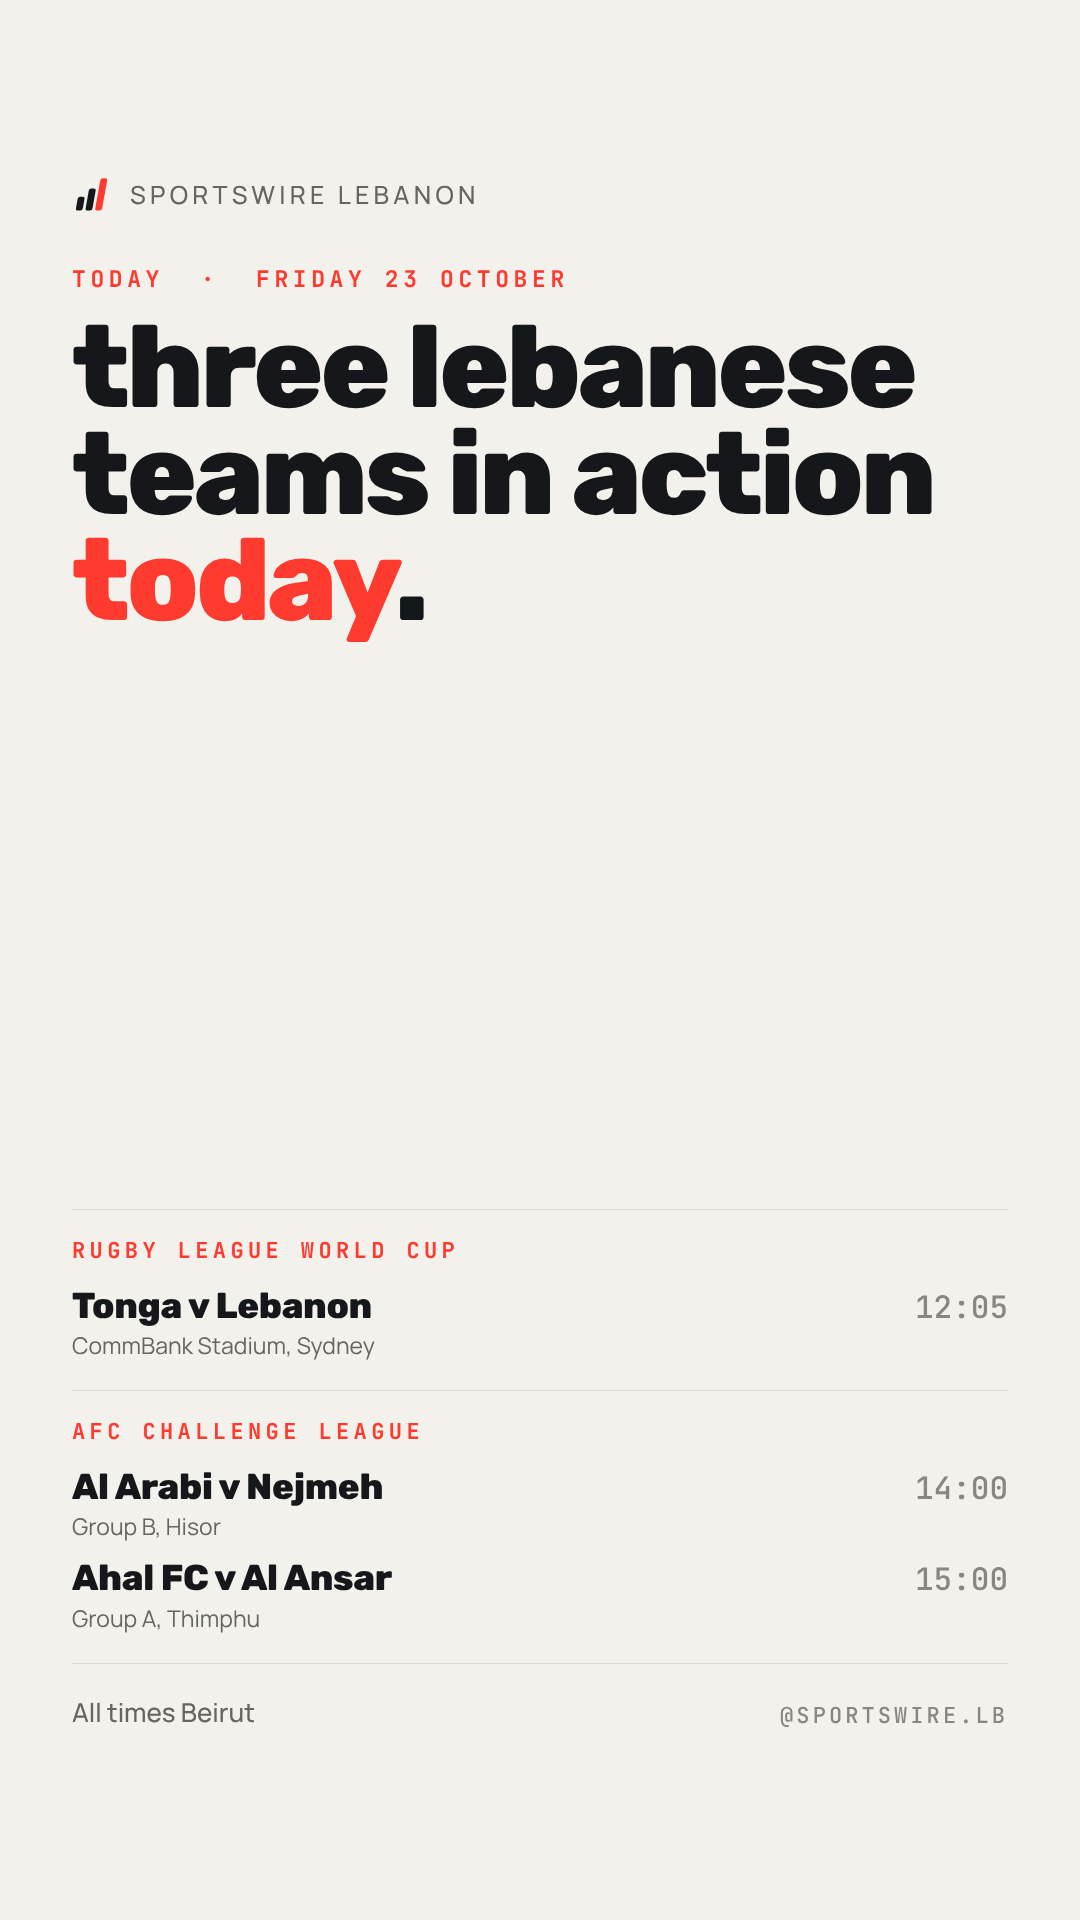
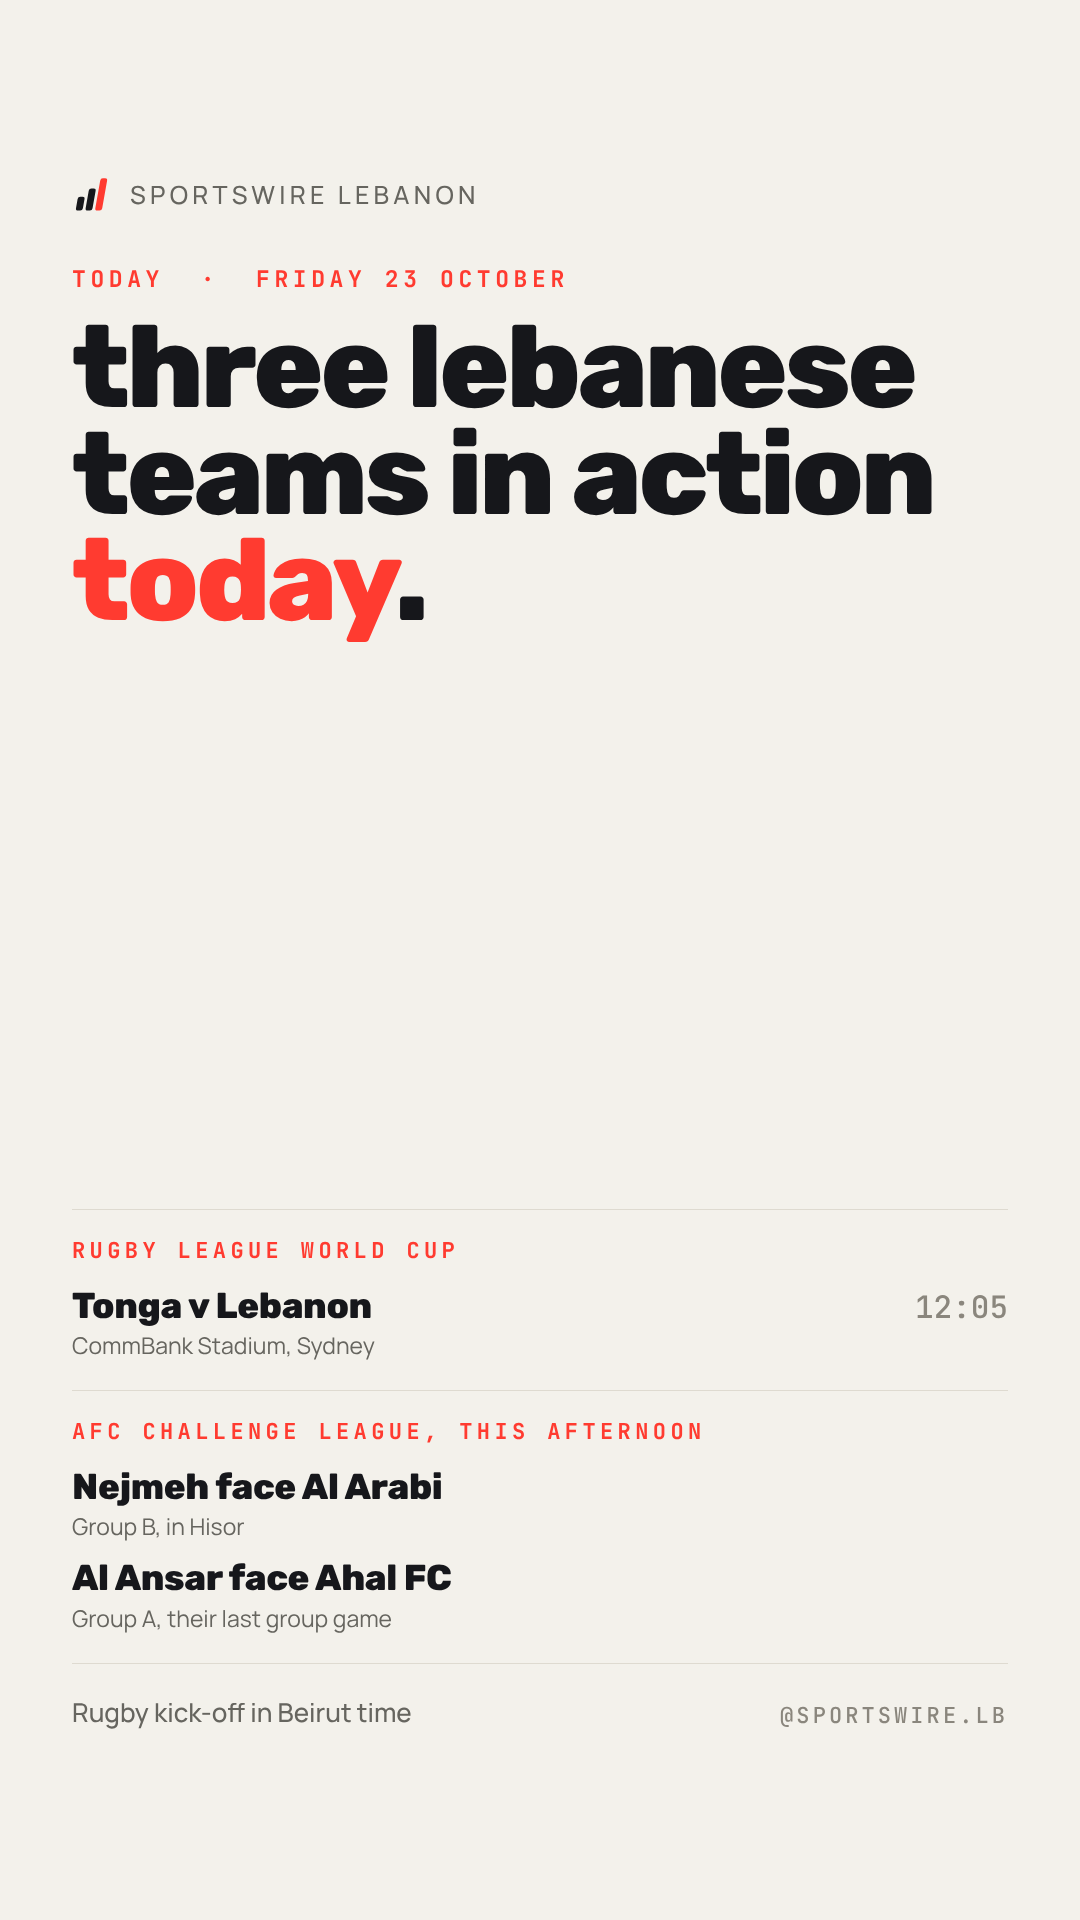
sportswire: robots.txt rule (AFC data API off-limits); Today Story without API times; events note
Claude-Session: https://claude.ai/code/session_016T4zKQNuiPuFGi6oC67faR

diff --git a/sportswire/PLAYBOOK.md b/sportswire/PLAYBOOK.md
@@ -205,3 +205,4 @@ Keep it under 150 words. If nothing was verifiable, say so in one line.
 - 21 Oct: the 09:15 cloud morning run ended in 30 seconds with nothing done. A check showed fresh cloud sessions started by a recurring scheduled task have no `add_repo` and git is refused, so they can never publish. Desks now run inside the SportsWire session as one-off `send_later` messages that each run tops up (schedule/README.md). Never schedule SportsWire work with `create_trigger`.
 - 21 Oct: Club names follow FIBA for basketball ("Al Riyadi"), the FLBB where FIBA has no listing ("Antonin", not "Antonine"). When briefing a fact-checker, say which body is the spelling authority, or it may flag the house spelling. A Lebanon24 flash had Riyadi's semi as 97-69; the club, WAM and four outlets had 98-69: one fast flash is never enough.
 - 22 Oct: An athlete's own press release, reprinted by several outlets, is still one source. The Tziortzis "third in the European Championship" line came only from his release; the series' standings didn't show it, so it was dropped. Count divisions and categories from the organiser (the NASCAR Euro Series has three: V8GP, OPEN, Rookie Challenge).
+- 23 Oct: A site whose robots.txt disallows automated access counts as a refusal, the same as a blocked fetch. The AFC's data API (api.the-afc.com) is `Disallow: /`, so it is no longer used, with curl or anything else. For AFC games use the www.the-afc.com match reports and news (allowed), then tier-2 outlets (Annahar, elsport, Grand Lebanon) for kick-off times. UEFA's match data (match.uefa.com) has no such rule and stays fine. Before relying on any data endpoint, check its robots.txt once and note it in `sources/`.

diff --git a/sportswire/RUNBOOK.md b/sportswire/RUNBOOK.md
@@ -104,5 +104,6 @@ A result desk is a one-off message into this session, queued with `send_later` b
 - **Search first, then fetch.** Find the page with WebSearch and fetch the URL from the results. A URL typed from memory or edited by hand may be refused.
 - **Long URLs** (Arabic slugs are percent-encoded and can exceed the fetch limit): use the short form many sites accept (e.g. `https://www.annahar.com/sports/358828/` without the slug), a different link to the same article from search results, or another outlet reporting the same facts.
 - **Sites that refuse automated fetching** (seen so far: philenews.com / in-cyprus, the961.com, lorientlejour.com sport, Transfermarkt, Kathimerini Cyprus, some Arabic portals): these are refused by the network for everyone; never use another tool, a cache, a mirror or a proxy to get around it. Search snippets can point you to the story; confirm the facts on a site that opens.
+- **robots.txt counts.** A site or API whose robots.txt disallows automated access is refused, even if curl would get through: never curl it instead. Known: api.the-afc.com (AFC data API) is disallowed; www.the-afc.com is allowed; match.uefa.com is allowed.
 - Instagram itself can't be fetched: confirm handles through the organisation's own website or `sources/handles.json`.
 - Nothing verifiable → schedule nothing and say so. That's a good outcome, not a failure.
